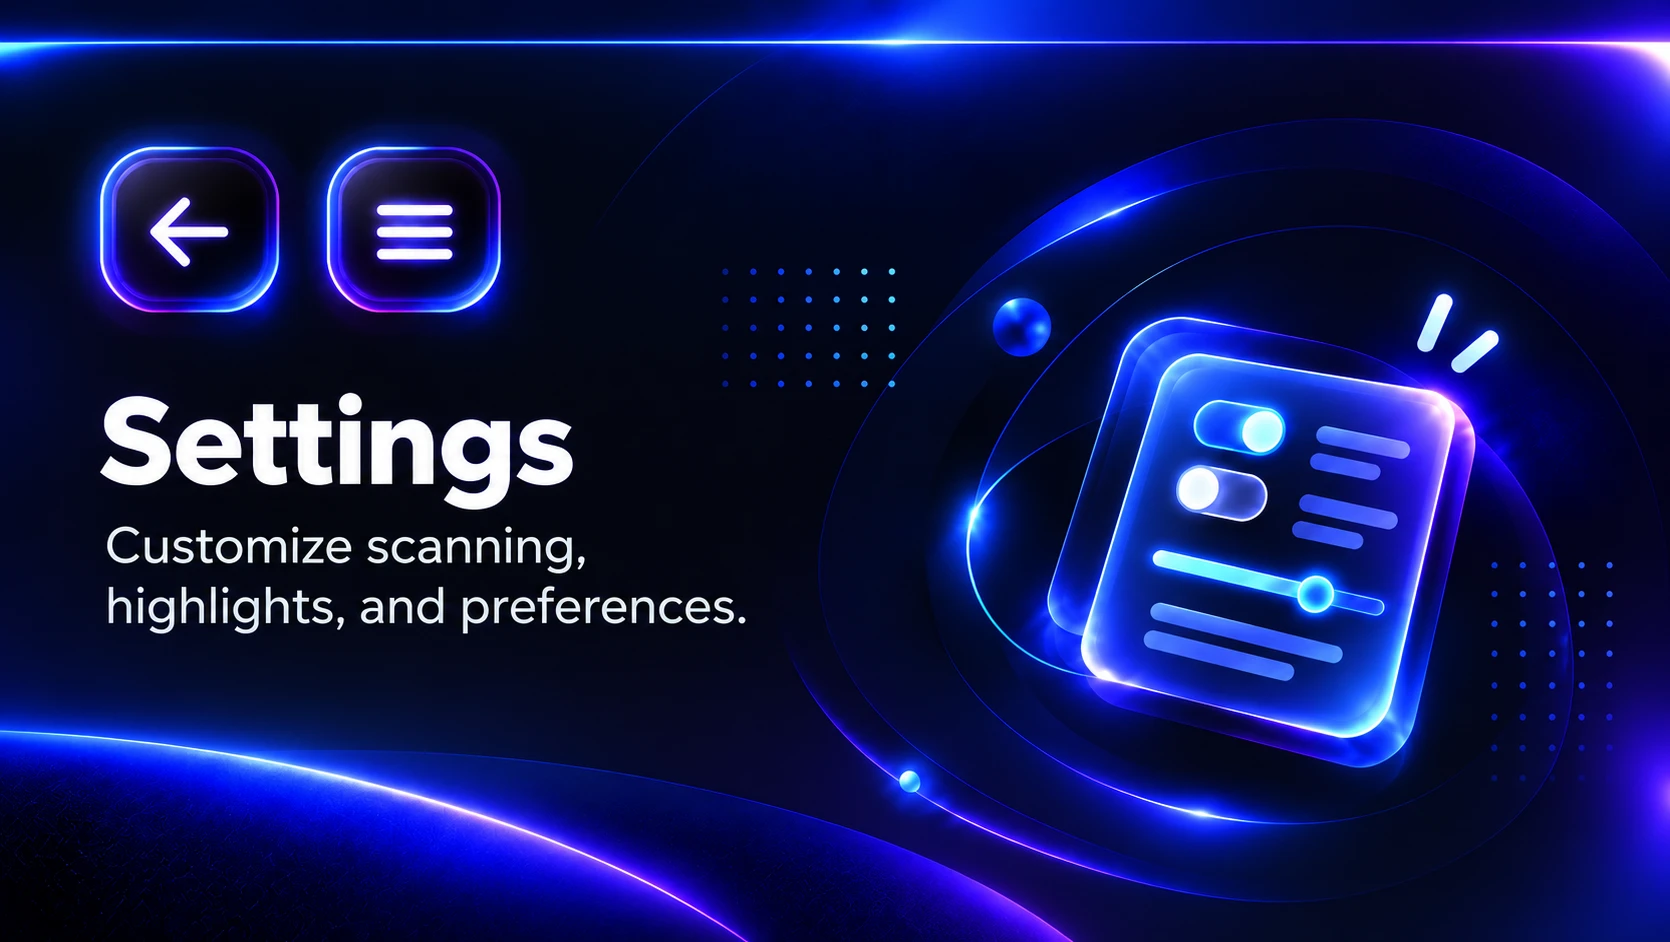
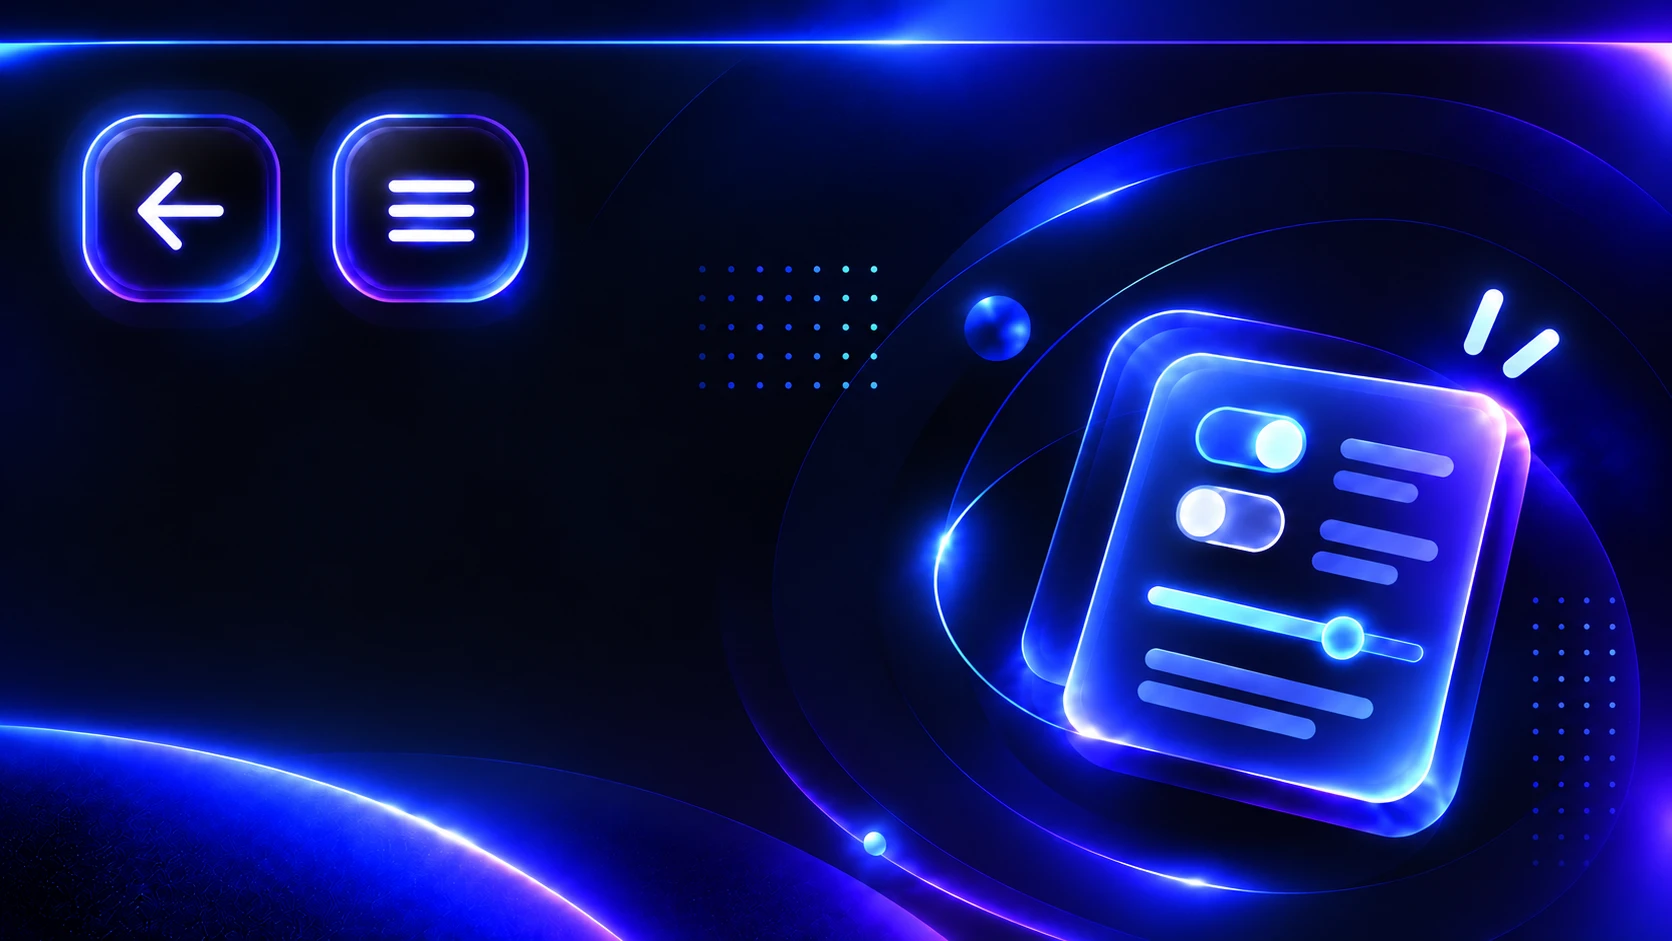
use live text on settings hero

diff --git a/src/linkedin/panel/MainMenu.tsx b/src/linkedin/panel/MainMenu.tsx
@@ -132,11 +132,12 @@ interface ArtworkHotspot {
   onClick: () => void;
 }
 
-function ArtworkHero({ name, path, width, height, alt, hotspots }: { name: string; path: string; width: number; height: number; alt: string; hotspots: ArtworkHotspot[] }) {
+function ArtworkHero({ name, path, width, height, alt, hotspots, children }: { name: string; path: string; width: number; height: number; alt: string; hotspots: ArtworkHotspot[]; children?: ReactNode }) {
   const src = typeof chrome !== "undefined" ? chrome.runtime?.getURL?.(path) : undefined;
   return (
     <section className={`lw-art-hero lw-art-hero--${name}`}>
       <img className="lw-art-hero__art" src={src || undefined} width={width} height={height} alt={alt} draggable={false} />
+      {children}
       {hotspots.map((hotspot) => (
         <button key={hotspot.modifier} type="button" className={`lw-art-hero__hotspot lw-art-hero__hotspot--${hotspot.modifier}`} aria-label={hotspot.label} onClick={hotspot.onClick} />
       ))}
@@ -165,13 +166,18 @@ export function SettingsHero() {
     <ArtworkHero
       name="settings"
       path="content/assets/settings-hero.webp"
-      width={1670}
-      height={942}
-      alt="Settings. Customize scanning, highlights, and preferences."
+      width={1672}
+      height={941}
+      alt=""
       hotspots={[
         { label: "Go back", modifier: "back", onClick: leaveSettings },
         { label: "Open LinkWise menu", modifier: "menu", onClick: () => panelToolPreference.set("menu") },
       ]}
-    />
+    >
+      <div className="lw-art-hero__copy">
+        <h2 className="lw-art-hero__title">Settings</h2>
+        <p className="lw-art-hero__subtitle">Customize scanning, highlights, and preferences.</p>
+      </div>
+    </ArtworkHero>
   );
 }

diff --git a/src/linkedin/panel/panelStyles.ts b/src/linkedin/panel/panelStyles.ts
@@ -1060,6 +1060,7 @@ export function getPanelStyles(widthPx: number): string {
   }
   .lw-art-hero {
     position: relative;
+    container-type: inline-size;
     flex-shrink: 0;
     margin: -16px -16px 0;
     line-height: 0;
@@ -1108,16 +1109,42 @@ export function getPanelStyles(widthPx: number): string {
     border-radius: 50%;
   }
   .lw-art-hero--settings .lw-art-hero__hotspot {
-    top: 15.6%;
-    width: 10.7%;
-    height: 17.5%;
+    top: 12.2%;
+    width: 11.7%;
+    height: 20%;
     border-radius: 24%;
   }
   .lw-art-hero--settings .lw-art-hero__hotspot--back {
-    left: 6%;
+    left: 4.9%;
   }
   .lw-art-hero--settings .lw-art-hero__hotspot--menu {
-    left: 19.6%;
+    left: 19.9%;
+  }
+  /* Live text laid over artwork, sized in container widths so it scales with the image the way
+     the Analyzer artwork's drawn title does, and placed where that title sits. */
+  .lw-art-hero__copy {
+    position: absolute;
+    left: 5.9%;
+    top: 42.5%;
+    max-width: 52%;
+    line-height: normal;
+    pointer-events: none;
+  }
+  .lw-art-hero__title {
+    margin: 0;
+    font-size: 7.7cqw;
+    font-weight: 700;
+    line-height: 1.05;
+    letter-spacing: -0.02em;
+    color: #ffffff;
+    text-shadow: 0 0 2.4cqw rgba(140, 165, 255, 0.35);
+  }
+  .lw-art-hero__subtitle {
+    margin: 1.9cqw 0 0;
+    font-size: 3.95cqw;
+    font-weight: 400;
+    line-height: 1.33;
+    color: #dfe3fb;
   }
   .lw-an-goal {
     display: flex;

diff --git a/src/linkedin/panel/jobFiltersNavigation.test.tsx b/src/linkedin/panel/jobFiltersNavigation.test.tsx
@@ -169,18 +169,20 @@ describe("Settings", () => {
     expect(hero.querySelector('[aria-label="Open LinkWise settings"]')).not.toBeNull();
     await openSettings();
     expect(stored["finder.panelTool.v1"]).toBe("settings");
-    expect(container.querySelector(".lw-art-hero--settings img")!.getAttribute("alt")).toContain("Settings");
+    expect(container.querySelector(".lw-art-hero--settings h2")!.textContent).toBe("Settings");
     await toMenu();
     expect(menuItems()).toHaveLength(4);
   });
 
-  it("shows only the artwork hero, with Back then Menu as its two controls", async () => {
+  it("shows the artwork hero with live title text, and Back then Menu as its two controls", async () => {
     await mountPanel();
     await openFromMenu("Profile Analyzer");
     await openSettings();
     const hero = container.querySelector(".lw-art-hero--settings")!;
     expect([...hero.querySelectorAll("button")].map((b) => b.getAttribute("aria-label"))).toEqual(["Go back", "Open LinkWise menu"]);
-    expect(hero.textContent).toBe("");
+    expect(hero.querySelector("h2")!.textContent).toBe("Settings");
+    expect(hero.querySelector("p")!.textContent).toBe("Customize scanning, highlights, and preferences.");
+    expect(container.querySelectorAll("h2")).toHaveLength(1);
     expect(container.querySelector(".lw-tool-head__title")).toBeNull();
   });
 
